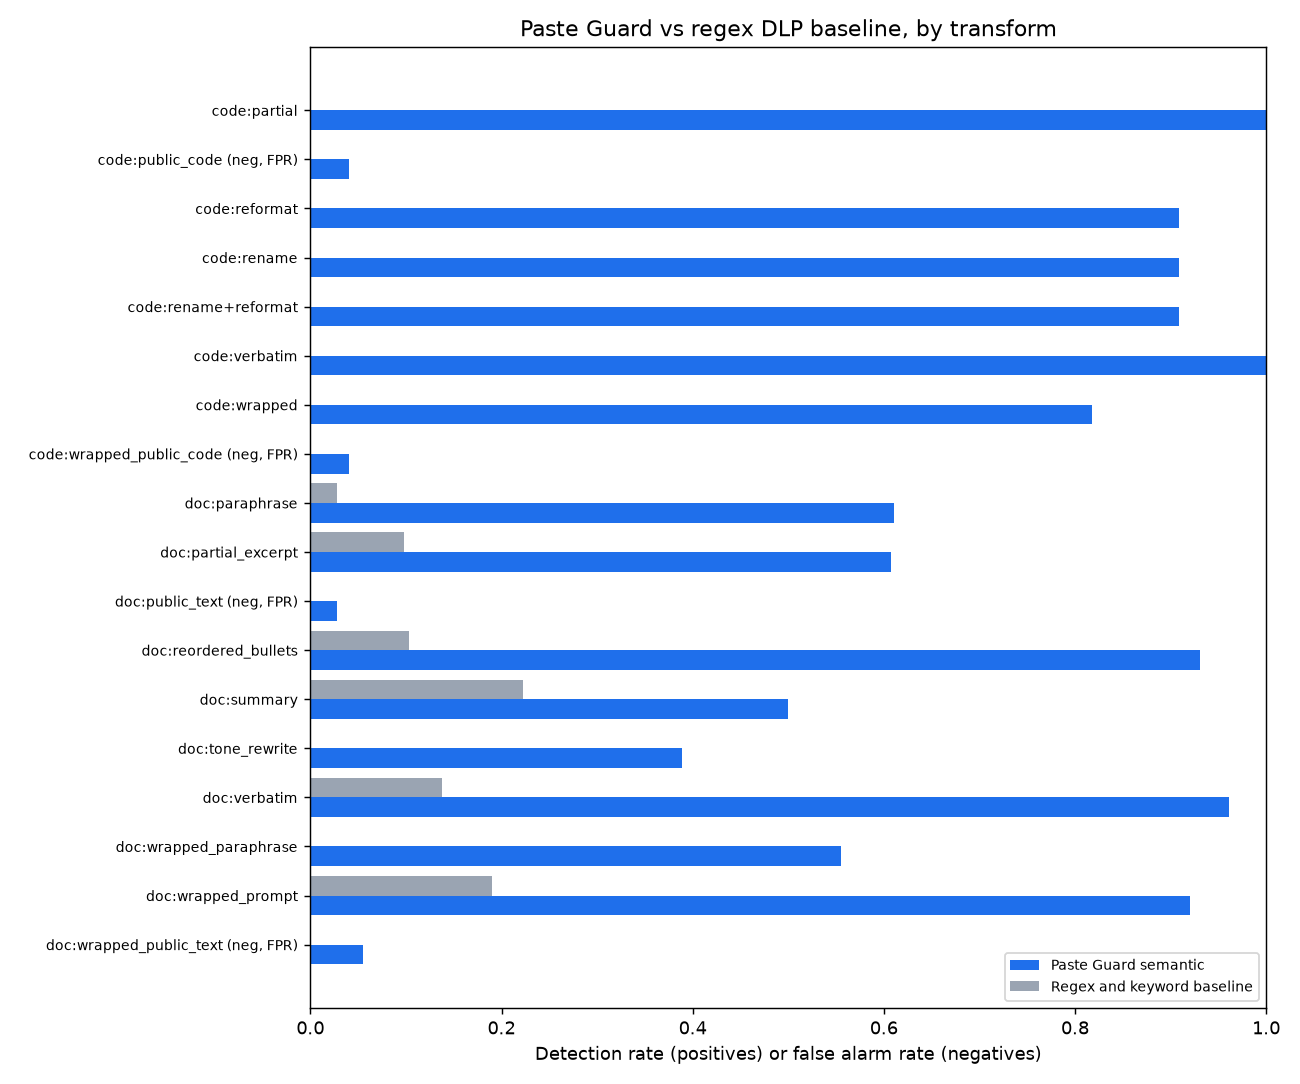
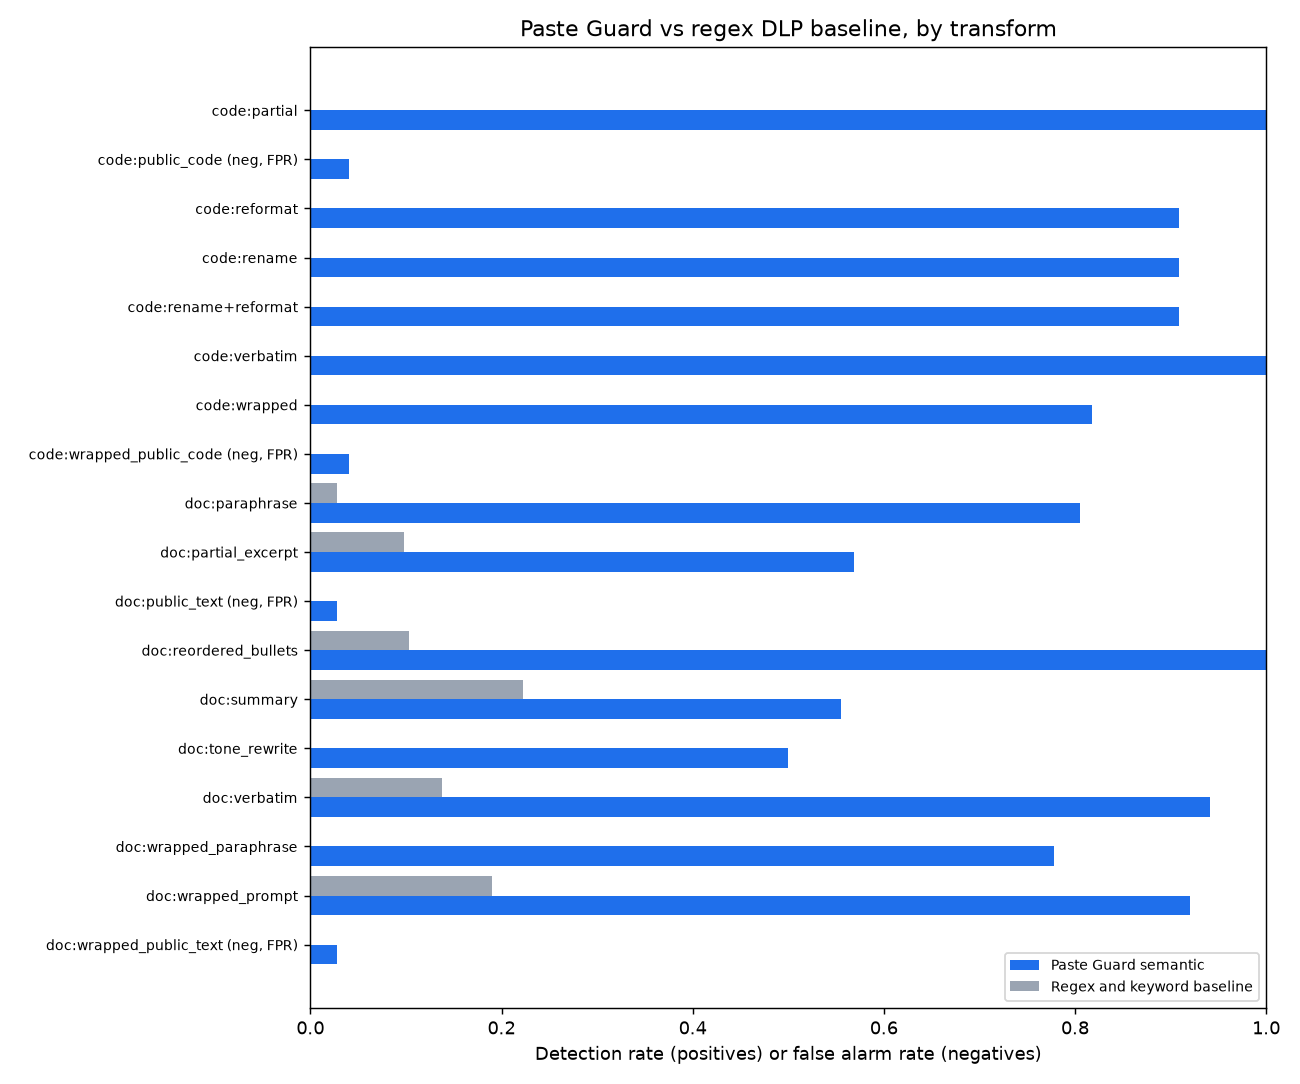
Fix duplicated overlap when splitting long paragraphs; retune document thresholds

diff --git a/backend/config.py b/backend/config.py
@@ -19,7 +19,7 @@ VERSION = (ROOT / "VERSION").read_text().strip() if (ROOT / "VERSION").exists() 
 DEFAULTS = {
     "index": {"docs": [], "code": [], "db": "data/index.db"},
     "server": {"host": "127.0.0.1", "port": 8765},
-    "thresholds": {"doc": {"nudge": 0.62, "coach": 0.65, "block": 0.78},
+    "thresholds": {"doc": {"nudge": 0.62, "coach": 0.63, "block": 0.78},
                    "code": {"nudge": 0.55, "coach": 0.65, "block": 0.85}},
     "sites": {"allowed": ["claude.ai", "chatgpt.com", "chat.openai.com"]},
     "audit": {"db": "data/audit.db", "keep_days": 30},

diff --git a/backend/chunking.py b/backend/chunking.py
@@ -41,9 +41,9 @@ def doc_chunks(text: str, target: int = 160, max_words: int = 200, min_words: in
     units = []  # (para_index, words)
     for i, p in enumerate(paras):
         w = p.split()
-        while len(w) > max_words:
+        while len(w) > max_words:  # packing below adds the overlap, so split cleanly here
             units.append((i, w[:target]))
-            w = w[target - overlap:]
+            w = w[target:]
         units.append((i, w))
     buf, start, last = [], None, None
     for i, w in units:

diff --git a/eval/results.md b/eval/results.md
@@ -1,17 +1,17 @@
 # Paste Guard evaluation results
 
-Model: `sentence-transformers/all-MiniLM-L6-v2`. Index: 533 document passages, 109 code chunks. Samples: 472.
+Model: `sentence-transformers/all-MiniLM-L6-v2`. Index: 485 document passages, 109 code chunks. Samples: 472.
 
 Semantic = Paste Guard similarity at or above the kind's **coach** threshold (an actionable warning). Semantic (nudge) also counts the softer nudge level. Regex = secrets rules plus CONFIDENTIAL-style markers plus a sensitive business keyword dictionary.
 
-Thresholds used: doc: nudge 0.62, coach 0.65, block 0.78; code: nudge 0.55, coach 0.65, block 0.85
+Thresholds used: doc: nudge 0.62, coach 0.63, block 0.78; code: nudge 0.55, coach 0.65, block 0.85
 
 ## Per kind
 
 | Kind | Method | N | Precision | Recall | F1 | FPR |
 |---|---|---|---|---|---|---|
-| doc | Semantic | 356 | 0.99 | 0.75 | 0.85 | 0.04 |
-| doc | Semantic (nudge) | 356 | 0.97 | 0.82 | 0.89 | 0.08 |
+| doc | Semantic | 356 | 0.99 | 0.80 | 0.88 | 0.03 |
+| doc | Semantic (nudge) | 356 | 0.98 | 0.81 | 0.89 | 0.07 |
 | doc | Regex baseline | 356 | 1.00 | 0.11 | 0.20 | 0.00 |
 | code | Semantic | 116 | 0.97 | 0.92 | 0.95 | 0.04 |
 | code | Semantic (nudge) | 116 | 0.97 | 1.00 | 0.99 | 0.04 |
@@ -29,22 +29,22 @@ Thresholds used: doc: nudge 0.62, coach 0.65, block 0.78; code: nudge 0.55, coac
 | code | verbatim | positive (detected) | 11 | 1.00 | 0.00 | 0.878 |
 | code | wrapped | positive (detected) | 11 | 0.82 | 0.00 | 0.794 |
 | code | wrapped_public_code | negative (false alarms) | 25 | 0.04 | 0.00 | 0.319 |
-| doc | paraphrase | positive (detected) | 36 | 0.61 | 0.03 | 0.681 |
-| doc | partial_excerpt | positive (detected) | 51 | 0.61 | 0.10 | 0.696 |
-| doc | public_text | negative (false alarms) | 36 | 0.03 | 0.00 | 0.478 |
-| doc | reordered_bullets | positive (detected) | 29 | 0.93 | 0.10 | 0.836 |
-| doc | summary | positive (detected) | 18 | 0.50 | 0.22 | 0.642 |
-| doc | tone_rewrite | positive (detected) | 18 | 0.39 | 0.00 | 0.631 |
-| doc | verbatim | positive (detected) | 51 | 0.96 | 0.14 | 0.835 |
-| doc | wrapped_paraphrase | positive (detected) | 18 | 0.56 | 0.00 | 0.651 |
-| doc | wrapped_prompt | positive (detected) | 63 | 0.92 | 0.19 | 0.806 |
-| doc | wrapped_public_text | negative (false alarms) | 36 | 0.06 | 0.00 | 0.498 |
+| doc | paraphrase | positive (detected) | 36 | 0.81 | 0.03 | 0.678 |
+| doc | partial_excerpt | positive (detected) | 51 | 0.57 | 0.10 | 0.679 |
+| doc | public_text | negative (false alarms) | 36 | 0.03 | 0.00 | 0.475 |
+| doc | reordered_bullets | positive (detected) | 29 | 1.00 | 0.10 | 0.835 |
+| doc | summary | positive (detected) | 18 | 0.56 | 0.22 | 0.644 |
+| doc | tone_rewrite | positive (detected) | 18 | 0.50 | 0.00 | 0.629 |
+| doc | verbatim | positive (detected) | 51 | 0.94 | 0.14 | 0.826 |
+| doc | wrapped_paraphrase | positive (detected) | 18 | 0.78 | 0.00 | 0.652 |
+| doc | wrapped_prompt | positive (detected) | 63 | 0.92 | 0.19 | 0.804 |
+| doc | wrapped_public_text | negative (false alarms) | 36 | 0.03 | 0.00 | 0.482 |
 
-Source attribution: for 274 detected positives, the top match pointed at the right source file 96% of the time.
+Source attribution: for 287 detected positives, the top match pointed at the right source file 95% of the time.
 
 ## Threshold sweep (best F1 with FPR at or under 5%)
 
-- doc: threshold 0.65 gives precision 0.99, recall 0.75, F1 0.85, FPR 0.04
+- doc: threshold 0.63 gives precision 0.99, recall 0.80, F1 0.88, FPR 0.03
 - code: threshold 0.51 gives precision 0.97, recall 1.00, F1 0.99, FPR 0.04
 
 ![results](results.png)

diff --git a/README.md b/README.md
@@ -58,13 +58,13 @@ From `eval/results.md` (472 samples, 18 confidential documents, one code reposit
 
 | Kind | Method | Precision | Recall | F1 | False positive rate |
 |---|---|---|---|---|---|
-| Documents | Paste Guard (coach level) | 0.99 | 0.75 | 0.85 | 0.04 |
-| Documents | Paste Guard (any warning, nudge level) | 0.97 | 0.82 | 0.89 | 0.08 |
+| Documents | Paste Guard (coach level) | 0.99 | 0.80 | 0.88 | 0.03 |
+| Documents | Paste Guard (any warning, nudge level) | 0.98 | 0.81 | 0.89 | 0.07 |
 | Documents | Regex and keyword baseline | 1.00 | 0.11 | 0.20 | 0.00 |
 | Code | Paste Guard (coach level) | 0.97 | 0.92 | 0.95 | 0.04 |
 | Code | Regex and keyword baseline | 0.00 | 0.00 | 0.00 | 0.00 |
 
-At the coach level, verbatim excerpts are caught 96% of the time (regex 14%), prompt-wrapped pastes 92% (regex 19%) and paraphrases 61% (regex 3%). Summaries (50%) and tone rewrites (39%) are the hardest. The top match names the right source document 96% of the time. Thresholds were tuned on this set, so treat these as in-sample numbers. Full breakdown and chart: `eval/results.md`.
+At the coach level, verbatim excerpts are caught 94% of the time (regex 14%), prompt-wrapped pastes 92% (regex 19%) and paraphrases 81% (regex 3%). Summaries (56%), partial excerpts (57%) and tone rewrites (50%) are the hardest. The top match names the right source document 95% of the time. Thresholds were tuned on this set, so treat these as in-sample numbers. Full breakdown and chart: `eval/results.md`.
 
 ## Privacy
 - Paste text is processed in memory and never written to disk.
